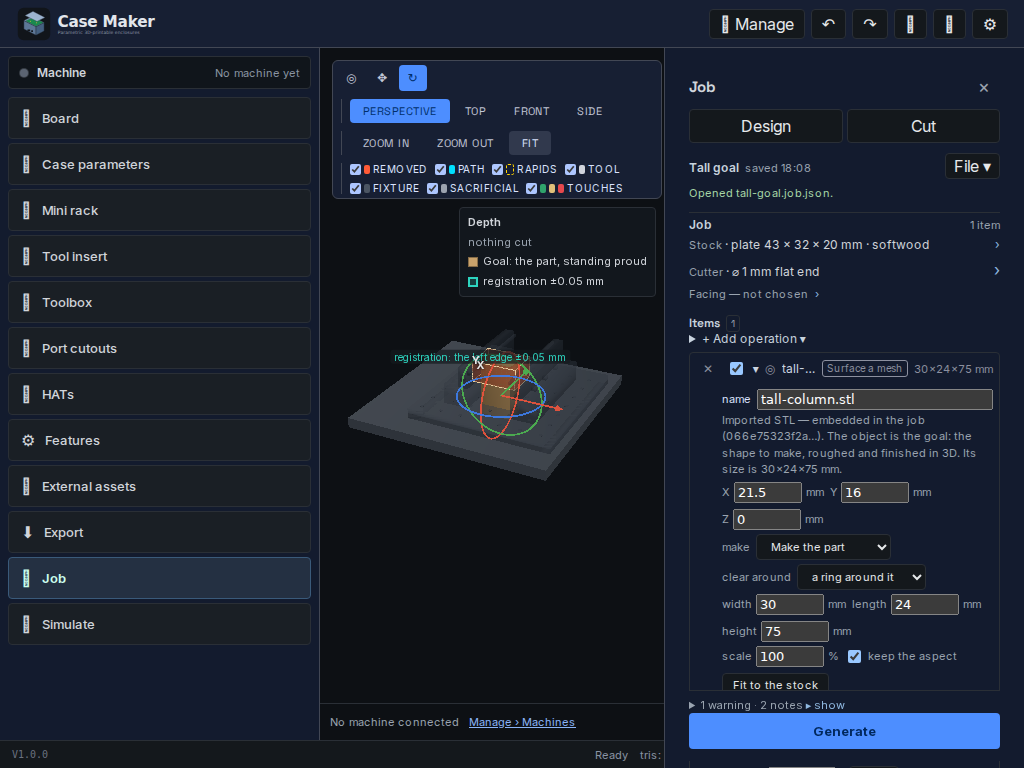
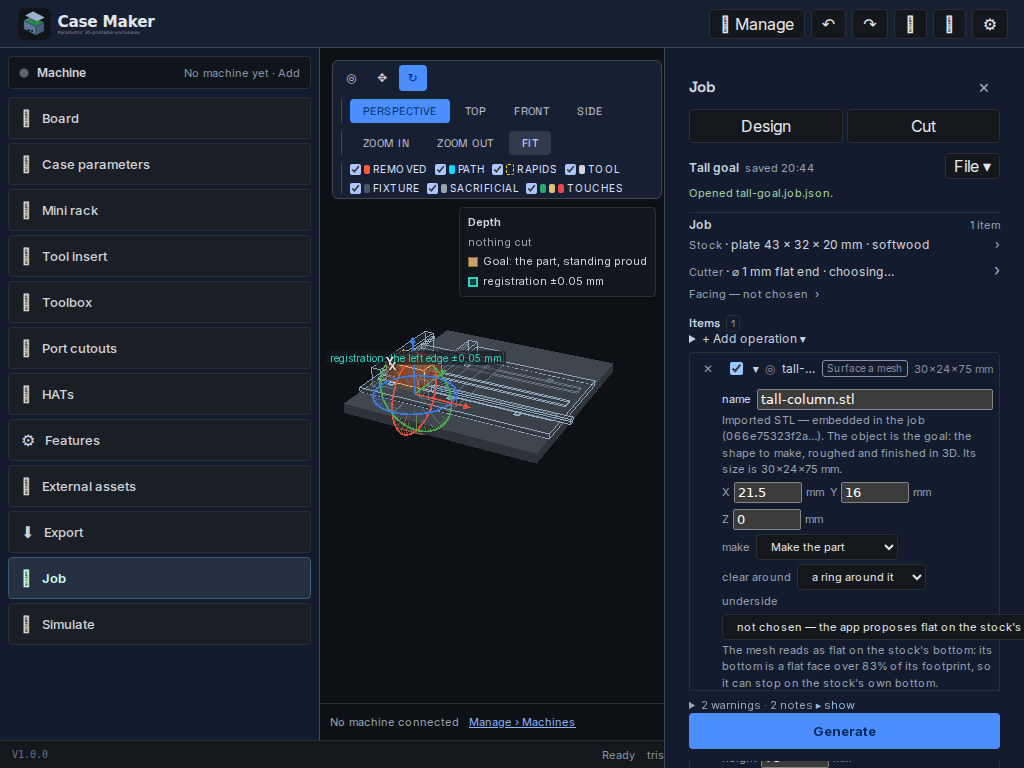
test(e2e): the goal-transform run's end state is the run it earns (#1035 item 11, #1036)
The tall-column test asserted the old #923 refusal — a jaw collision whose
"would cut ... into the vise" sentence this job never produced: measured at
bcbb8427d the run crossed on the sim refusing the program's unbench'd cutter
("program 1 (112111313812) names 112111313812, which is not on this bench"),
and #1032's registry resolution removed that refusal. The quarter turn fits the
job inside the 43 × 32 blank (the test's own placement asserts it), the sim
evaluates the real program and ticks, and #1036 makes the Cut page read the
scopes the run actually posted — so the honest end state is: toolpath and
simulated tick, no error row, Cut with no "no program was produced" and the goal
card "Matches the design (goal)".

The refreshed captures are committed beside the spec.

diff --git a/casemaker-app/tests/e2e/goalTransform.spec.ts b/casemaker-app/tests/e2e/goalTransform.spec.ts
@@ -187,24 +187,32 @@ test('a 75 mm goal on a 43 × 32 blank: Lay it flat, a quarter turn on the X rin
   const undone = (await placement(page))!;
   expect(undone.turns).toEqual(before.turns);
 
-  // #923 — THE REFUSAL IS THE POINT. The goal never fits the 32 mm blank: the path is clipped to
-  // the stock edge and the ⌀1 finish runs along the jaws, so the column engine's fixture check
-  // names the collision (thousands of tool-into-fixture findings). Before #923 this case ticked
-  // "simulated" on the same job — the silent pass the issue is about.
+  // #1035 item 11 — THE RUN COMPLETES ON THE LAID-FLAT JOB, and that is the truth of this fixture:
+  // the quarter turn fits it inside the 43 × 32 blank (the placement above asserts 24 mm deep of
+  // 32, inside x and y), so the finish cuts the blank's own face — the jaws stand BESIDE the stock,
+  // not under the path. The old tail asserted the opposite, a jaw collision with its "would cut
+  // into the vise" sentence; that sentence never came from this job: measured at bcbb8427d, the run
+  // CROSSED on the sim refusing the program's cutter ("program 1 (112111313812) names
+  // 112111313812, which is not on this bench"), and #1032's registry resolution removed that
+  // refusal, so the sim now evaluates the real program and finds no collision. The oracle row below
+  // still carries the goal check's own verdict.
   await page.getByTestId('engrave-generate').click();
   await expect(page.getByTestId('engrave-run-toolpath')).toHaveAttribute('data-state', 'tick', { timeout: 300_000 });
-  await expect(page.getByTestId('engrave-run-simulated')).toHaveAttribute('data-state', 'cross', { timeout: 300_000 });
-  // The operator's sentence, not the finding code: the first error names the jaw in words.
-  await expect(page.getByTestId('engrave-run-errors')).toContainText(/would cut .*into the vise/i, {
-    timeout: 60_000,
-  });
-  await shoot(page, 'goal-laid-flat-refused.png');
+  await expect(page.getByTestId('engrave-run-simulated')).toHaveAttribute('data-state', 'tick', { timeout: 300_000 });
+  // A clean run states no error row at all — neither the old jaw sentence nor the refusal it
+  // actually failed on before #1032.
+  await expect(page.getByTestId('engrave-run-errors')).toHaveCount(0);
+  await shoot(page, 'goal-laid-flat-generated.png');
 
-  // Cut reads the same run (#931): "did not pass", and the hold is the offered fix.
+  // Cut reads the same run (#931) and, since #1036, reads it the way the run's own gate does: the
+  // plan substituted the job's ⌀1 flat-1.0 for flat-3.175x12-metal, and the scopes follow the
+  // POSTED programs — so the gate is the clean one the run earned, not "no program was produced".
   await page.getByTestId('cnc-mode-cut').click();
   await expect(page.getByTestId('engrave-cut-surface')).toBeVisible();
-  await expect(page.getByTestId('engrave-cut-verdict')).toHaveAttribute('data-state', 'failed');
-  await expect(page.getByTestId('engrave-cut-verdict-fix')).toHaveText('Open the Holding step');
+  await expect(page.getByTestId('engrave-cut-surface')).not.toContainText('no program was produced');
+  // The goal card's own end state: the judged coverage passes its line.
+  await expect(page.getByTestId('engrave-cut-goal')).toHaveAttribute('data-state', 'match');
+  await expect(page.getByTestId('engrave-cut-goal')).toHaveText('Matches the design (goal)');
 });
 
 // #949 — THE OVERSIZED GOAL IS REFUSED AT THE CAM, BEFORE A TOOLPATH EXISTS. The 30 × 24 column
